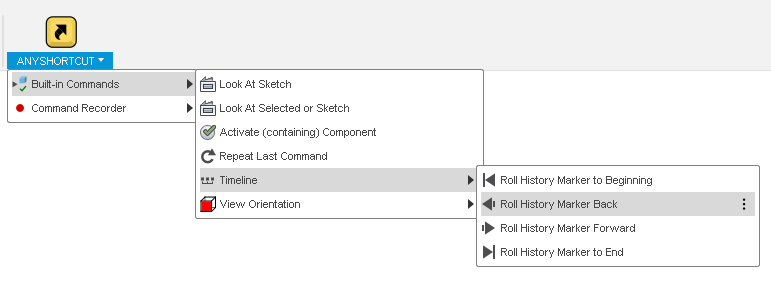
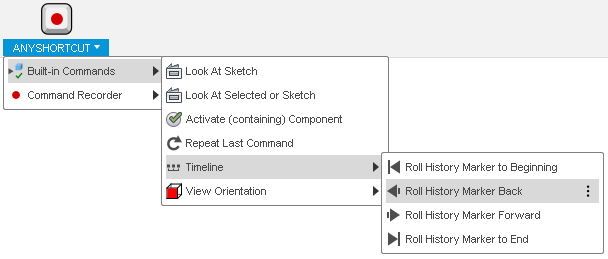
Remove AnyShort cut button. Promote Record button.
Changes to get through Autodesk review.

Changed region(s): [[0.0, 0.0, 1.0, 0.9884]]

diff --git a/AnyShortcut.py b/AnyShortcut.py
@@ -51,7 +51,6 @@ importlib.reload(thomasa88lib.error)
 importlib.reload(thomasa88lib.timeline)
 
 ENABLE_CMD_DEF_ID = 'thomasa88_anyShortcutList'
-ABOUT_CMD_DEF_ID = 'thomasa88_anyShortcutAbout'
 PANEL_ID = 'thomasa88_anyShortcutPanel'
 MAIN_DROPDOWN_ID = 'thomasa88_anyShortcutMainDropdown'
 TRACKING_DROPDOWN_ID = 'thomasa88_anyShortcutDropdown'
@@ -149,14 +148,12 @@ def stop_tracking():
     update_enable_text()
 
 def update_enable_text():
-    # Find path on Windows and Mac
-    neutron_ui_dir = ui_.commandDefinitions.itemById('LookAtCommand').resourceFolder.replace('/Commands/Resources/Camera/LookAt', '')
     if tracking_:
-        text = f'Enable recording ({MAX_TRACK - track_count_} more unique commands)'
-        enable_cmd_def_.resourceFolder = neutron_ui_dir + '/Base/Resources/Browser/CheckBoxChecked'
+        text = f'Stop recording (Auto-stop after {MAX_TRACK - track_count_} more commands)'
+        enable_cmd_def_.resourceFolder = './resources/stop'
     else:
-        text = f'Enable recording ({MAX_TRACK} unique commands)'
-        enable_cmd_def_.resourceFolder = neutron_ui_dir + '/Base/Resources/Browser/CheckBoxUnchecked'
+        text = f'Start recording (Auto-stop after {MAX_TRACK} unique commands)'
+        enable_cmd_def_.resourceFolder = './resources/record'
     enable_cmd_def_.controlDefinition.name = text
 
 def look_at_sketch_handler(args: adsk.core.CommandCreatedEventArgs):
@@ -461,29 +458,11 @@ def run(context):
         events_manager_.add_handler(event=enable_cmd_def_.commandCreated,
                                     callback=enable_cmd_def__created_handler)
         
-        tracking_dropdown_.controls.addCommand(enable_cmd_def_)
+        enable_control = tracking_dropdown_.controls.addCommand(enable_cmd_def_)
+        enable_control.isPromoted = True
+        enable_control.isPromotedByDefault = True
         enable_cmd_def_.controlDefinition.isEnabled = False
         tracking_dropdown_.controls.addSeparator()
-
-        about_cmd_def = ui_.commandDefinitions.itemById(ABOUT_CMD_DEF_ID)
-        if about_cmd_def:
-            about_cmd_def.deleteMe()
-        about_cmd_def = ui_.commandDefinitions.addButtonDefinition(
-            ABOUT_CMD_DEF_ID,
-            f'{NAME} (v{manifest_["version"]})',
-            'Open the menu to add keyboard shortcuts to commands.',
-            './resources/anyshortcut')
-        events_manager_.add_handler(about_cmd_def.commandCreated,
-                                    callback=lambda args: ui_.messageBox(
-                                    'This icon should not be clickable, but it is, due to a Fusion bug.\n\n' +
-                                    'Click on the drop down menu to access the controls'))
-        about_control = panel_.controls.addCommand(about_cmd_def)
-        about_control.isPromoted = True
-        about_control.isPromotedByDefault = True
-        about_control.isVisible = False
-        # isEnabled does not work in the current version of Fusion 360 (2020-08-15):
-        # https://forums.autodesk.com/t5/fusion-360-api-and-scripts/how-to-disable-my-command-button-on-the-toolbar/td-p/9538998
-        about_cmd_def.controlDefinition.isEnabled = False
 
 def stop(context):
     with error_catcher_:

diff --git a/README.md b/README.md
@@ -33,7 +33,7 @@ If not stopped, the recording stops automatically after a number of commands, to
 
 To set up a shortcut:
 
-* Click *Enable recording* and then perform the command you want to create a shortcut for
+* Click *Start recording* and then perform the command you want to create a shortcut for
 * If you are lucky, the command will now have appeared at the bottom of the *AnyShortcut* menu.
 * Find the command in the menu and click the three dots to assign a shortcut as usual.
 
@@ -59,7 +59,7 @@ Make sure the directory is named `AnyShortcut`, with no suffix.
 
 The new menu *TOOLS* -> *ANYSHORTCUT* is now available.
 
-The add-in can be temporarily disabled using the *Scripts and Add-ins* dialog. Press* Shift+S in Fusion 360™ and go to the *Add-Ins* tab.
+The add-in can be temporarily disabled using the *Scripts and Add-ins* dialog. Press *Shift+S* in Fusion 360™ and go to the *Add-Ins* tab.
 
 ## Ideas for commands to map
 
@@ -90,6 +90,8 @@ This project is licensed under the terms of the MIT license. See [LICENSE](LICEN
 
 ## Changelog
 
+* v 1.0.3
+  * Promote *Record*/*Stop* button to toolbar. Remove no-op *AnyShortcut* button.
 * v 1.0.2
   * Enable *Run on Startup* by default.
 * v 1.0.1
